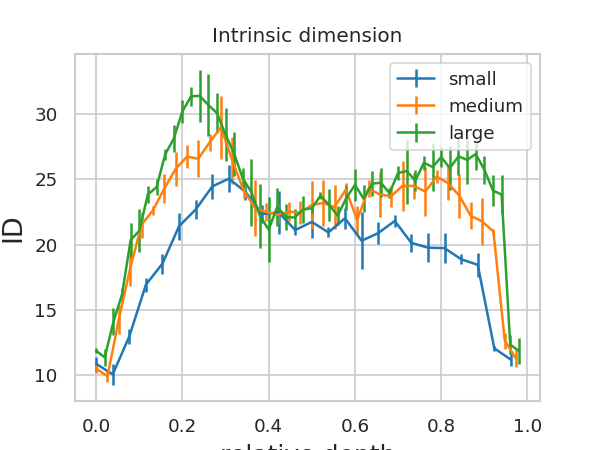
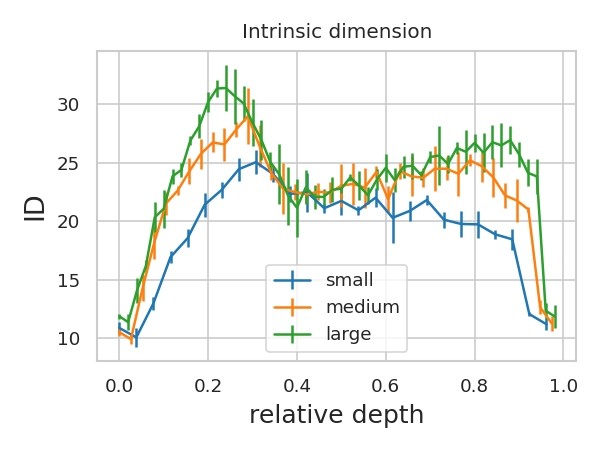
update plots

diff --git a/plot_id_overlap.py b/plot_id_overlap.py
@@ -122,6 +122,7 @@ if args.plot_id:
     ax.set_ylabel('ID', fontsize = 13)
     ax.set_xlabel('relative depth', fontsize = 12)
     ax.set_title('Intrinsic dimension')
+    plt.tight_layout()
     plt.savefig('./results/intrinsic_dimension.png', dpi = 150)
 
 
@@ -147,6 +148,7 @@ if args.plot_overlap:
     ax.set_ylabel('$\chi^{l, gt}$', fontsize = 14)
     ax.set_xlabel('relative depth', fontsize = 12)
     ax.set_title('Neighborhood consistency w.r.t classification labels')
+    plt.tight_layout()
     plt.savefig('./results/overlap_ground_truth.png', dpi = 150)
 
 
